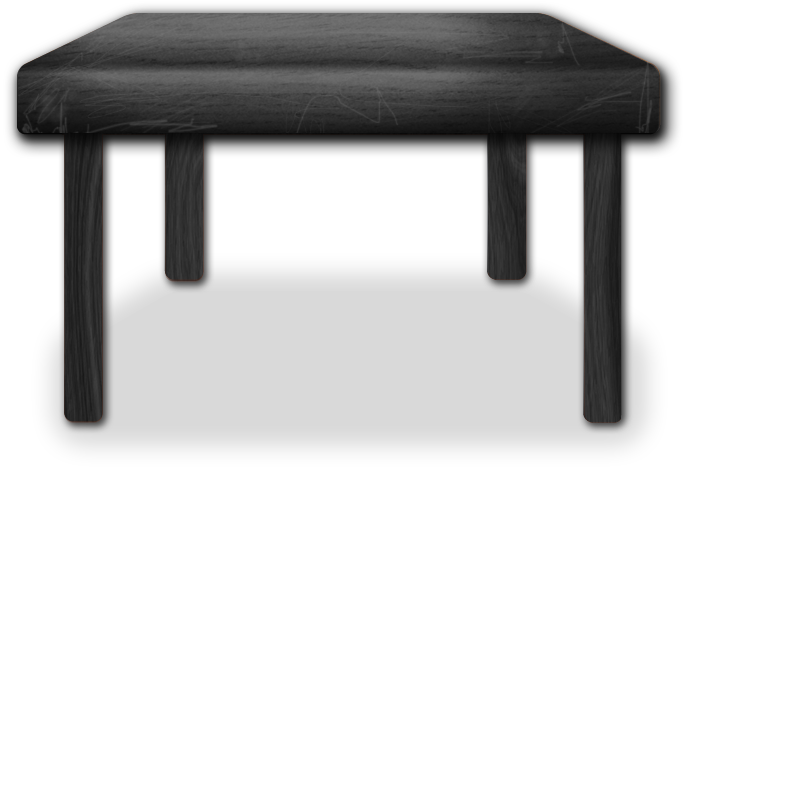
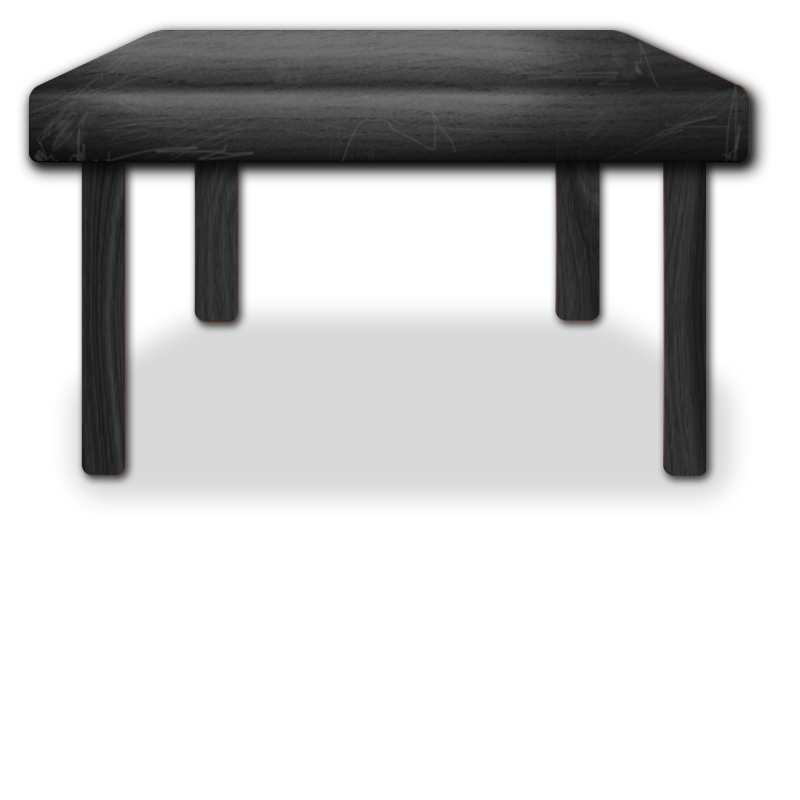
Add stand for books.

Changed region(s): [[0.0, 0.0, 0.9688, 0.625]]

diff --git a/public/css/app.less b/public/css/app.less
@@ -92,6 +92,19 @@ h1 {
   right: 15%;
 }
 
+.stand {
+  background: url("/img/stand.png") right top no-repeat;
+  background-size: 100%;
+  width: 20%;
+  height: 27.7%;
+  z-index: 2;
+  position: absolute;
+  margin: 0px auto;
+  text-indent: -9999px;
+  top: 20%;
+  left: 11%;
+}
+
 @-webkit-keyframes logo {
   from { background-position: left top; }
   to { background-position: 208.35% top; }

diff --git a/index.html b/index.html
@@ -13,5 +13,6 @@
   	<div class="hanging_lamp"></div>
     <div class="jp_logo"></div>
     <div class="desk"></div>
+    <div class="stand"></div>
   </body>
 </html>
